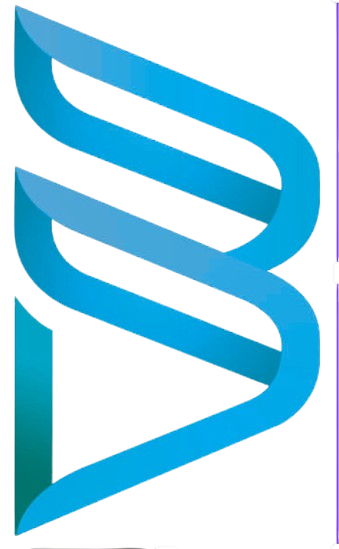
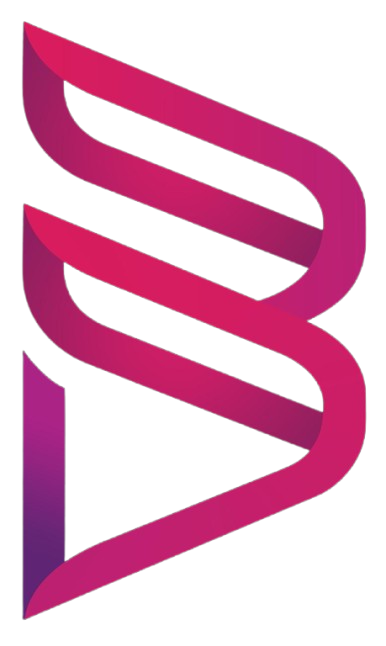
new

diff --git a/src/index.css b/src/index.css
@@ -6,55 +6,55 @@
 
 @layer base {
   :root {
-    --background: 220 55% 5%;
+    --background: 287 36% 7%;
     --foreground: 0 0% 98%;
 
-    --card: 220 48% 8%;
+    --card: 292 33% 11%;
     --card-foreground: 0 0% 98%;
 
-    --popover: 220 48% 8%;
+    --popover: 292 33% 11%;
     --popover-foreground: 0 0% 98%;
 
-    --primary: 195 100% 60%;
+    --primary: 327 95% 62%;
     --primary-foreground: 0 0% 8%;
 
-    --secondary: 210 75% 36%;
+    --secondary: 289 58% 34%;
     --secondary-foreground: 0 0% 98%;
 
-    --muted: 220 35% 14%;
-    --muted-foreground: 210 16% 72%;
+    --muted: 288 24% 16%;
+    --muted-foreground: 300 14% 78%;
 
-    --accent: 193 95% 55%;
+    --accent: 314 88% 56%;
     --accent-foreground: 0 0% 8%;
 
     --destructive: 0 84% 60%;
     --destructive-foreground: 0 0% 100%;
 
-    --border: 214 35% 24%;
-    --input: 214 35% 24%;
-    --ring: 195 100% 60%;
+    --border: 290 29% 28%;
+    --input: 290 29% 28%;
+    --ring: 327 95% 62%;
 
     --radius: 0.75rem;
 
-    --gradient-hero: linear-gradient(130deg, hsl(195 100% 60% / 0.34), hsl(210 75% 36% / 0.22), hsl(220 55% 5% / 0.95));
-    --gradient-section: linear-gradient(180deg, hsl(195 100% 60% / 0.09), hsl(220 55% 5% / 0.03));
-    --gradient-card: linear-gradient(135deg, hsl(0 0% 100% / 0.08), hsl(0 0% 100% / 0.03));
-    --gradient-text: linear-gradient(135deg, hsl(193 95% 60%), hsl(210 82% 64%));
-    --glow-shadow: 0 0 20px hsl(195 100% 60% / 0.4), 0 0 60px hsl(195 100% 60% / 0.14);
-    --glow-text-shadow: 0 0 36px hsl(195 100% 60% / 0.42);
-    --glass-border: hsl(195 100% 70% / 0.16);
-    --wave-fill: hsl(220 55% 5%);
-    --shadow-glass: 0 8px 32px hsl(195 100% 60% / 0.16);
+    --gradient-hero: linear-gradient(130deg, hsl(327 95% 62% / 0.38), hsl(305 78% 45% / 0.28), hsl(287 36% 7% / 0.95));
+    --gradient-section: linear-gradient(180deg, hsl(327 95% 62% / 0.12), hsl(287 36% 7% / 0.04));
+    --gradient-card: linear-gradient(135deg, hsl(327 95% 62% / 0.14), hsl(306 65% 40% / 0.08));
+    --gradient-text: linear-gradient(135deg, hsl(338 98% 67%), hsl(304 84% 61%));
+    --glow-shadow: 0 0 20px hsl(327 95% 62% / 0.45), 0 0 60px hsl(304 84% 61% / 0.2);
+    --glow-text-shadow: 0 0 36px hsl(327 95% 62% / 0.48);
+    --glass-border: hsl(321 86% 70% / 0.2);
+    --wave-fill: hsl(287 36% 7%);
+    --shadow-glass: 0 8px 32px hsl(327 95% 62% / 0.2);
     --shadow-card: 0 4px 24px hsl(0 0% 0% / 0.4);
 
-    --sidebar-background: 220 52% 7%;
+    --sidebar-background: 288 38% 9%;
     --sidebar-foreground: 0 0% 95%;
-    --sidebar-primary: 195 100% 60%;
+    --sidebar-primary: 327 95% 62%;
     --sidebar-primary-foreground: 0 0% 8%;
-    --sidebar-accent: 220 30% 13%;
+    --sidebar-accent: 287 29% 15%;
     --sidebar-accent-foreground: 0 0% 95%;
-    --sidebar-border: 214 35% 24%;
-    --sidebar-ring: 195 100% 60%;
+    --sidebar-border: 290 29% 28%;
+    --sidebar-ring: 327 95% 62%;
   }
 }
 
@@ -64,6 +64,12 @@
   }
   body {
     @apply bg-background text-foreground font-sans;
+    background-color: hsl(var(--background));
+    background-image:
+      radial-gradient(circle at 18% 16%, hsl(333 94% 64% / 0.3), transparent 42%),
+      radial-gradient(circle at 84% 0%, hsl(292 84% 58% / 0.24), transparent 40%),
+      linear-gradient(165deg, hsl(296 44% 14%), hsl(287 36% 7%) 46%, hsl(280 42% 9%) 100%);
+    background-attachment: fixed;
   }
 }
 
